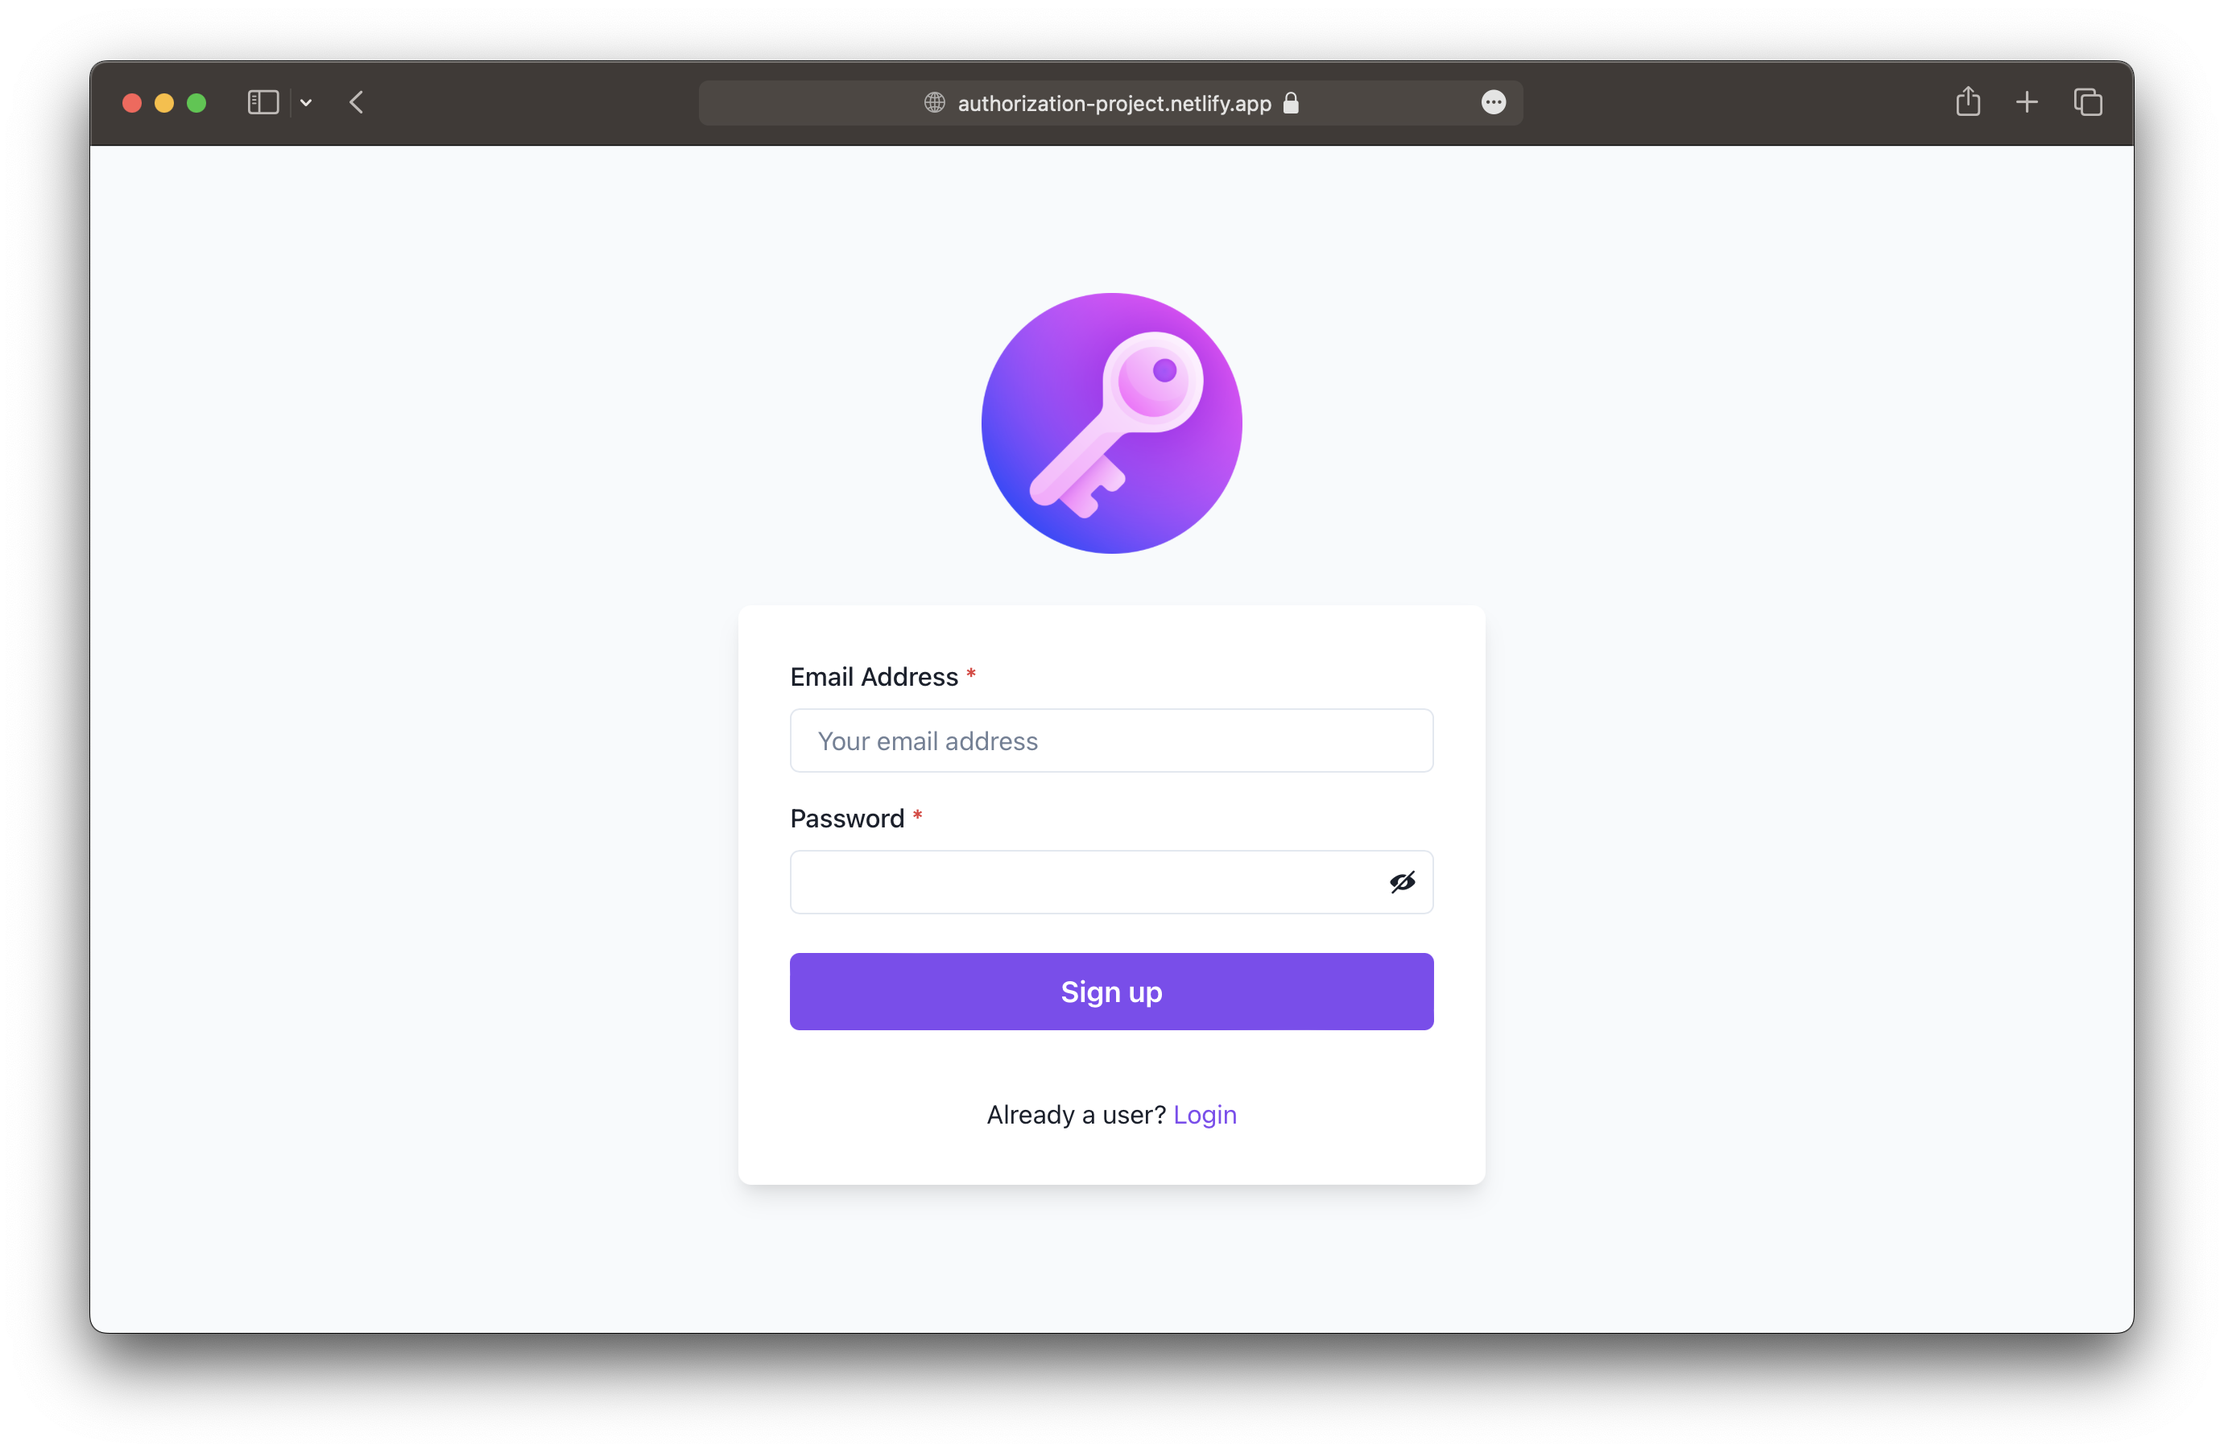
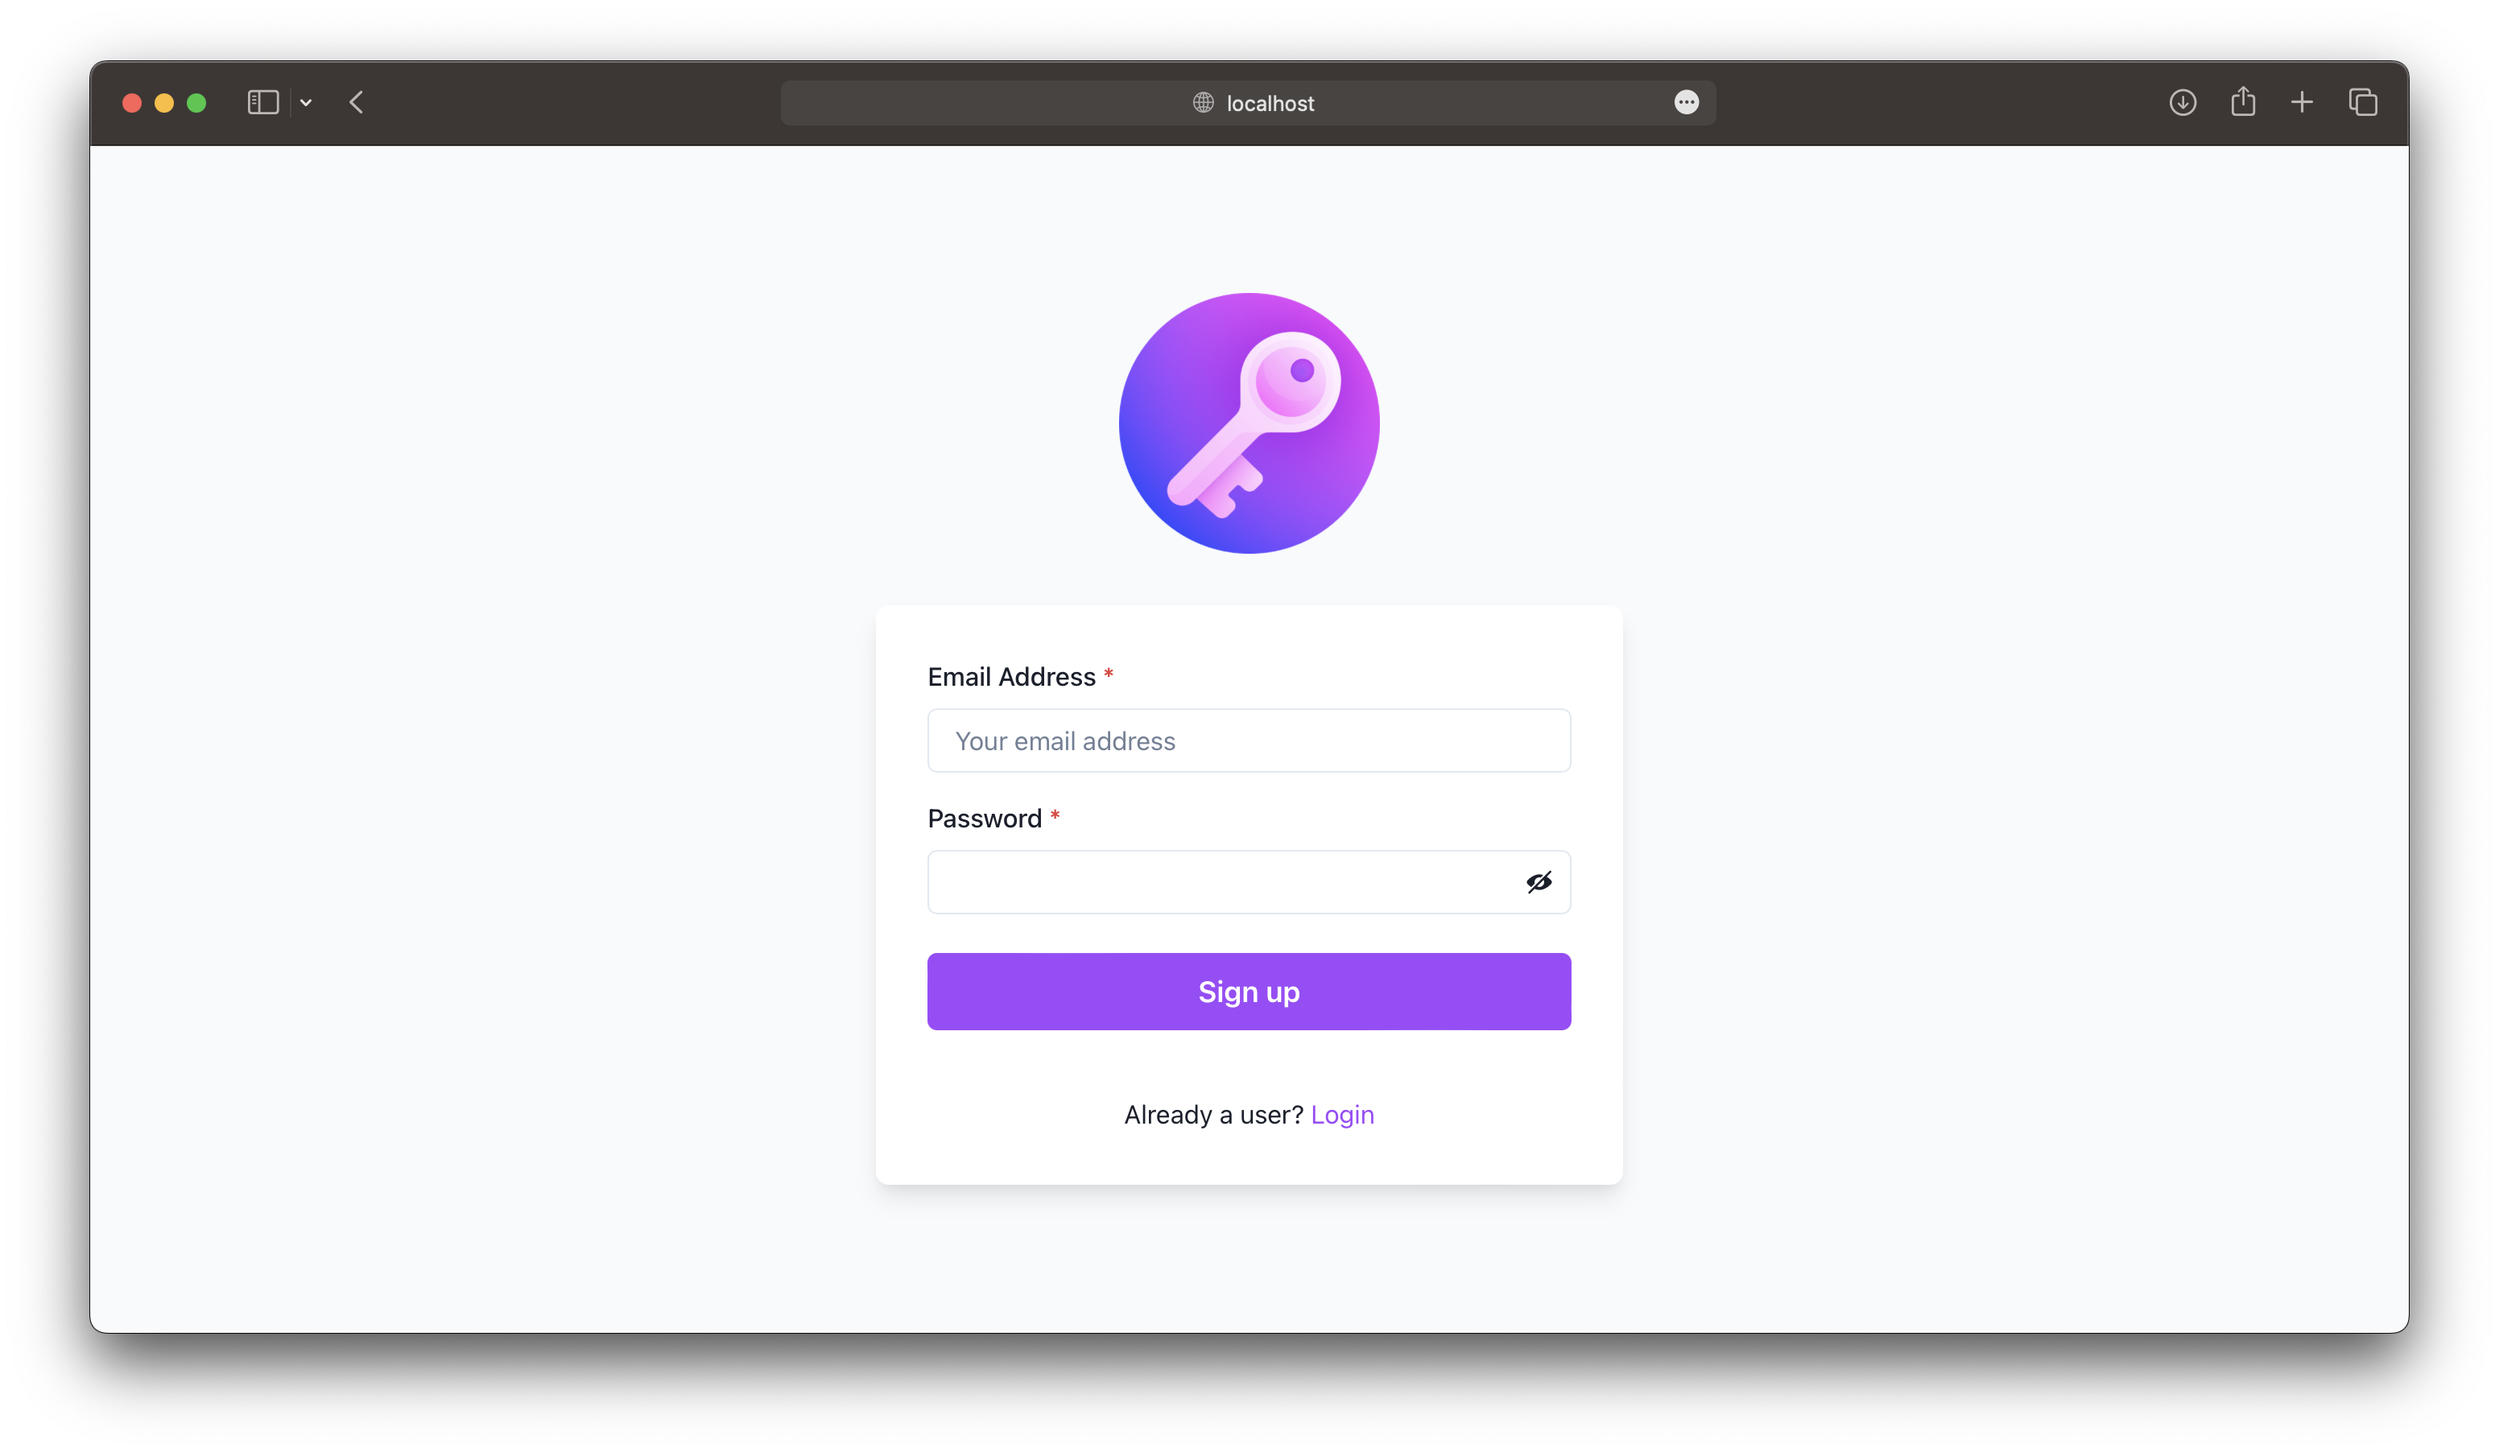
Add minor changes to the UI

diff --git a/src/components/SignUpButton.jsx b/src/components/SignUpButton.jsx
@@ -4,10 +4,10 @@ const SignUpButton = (props) => {
   return (
     <Stack pt={2} spacing={10}>
       <Button
-        bg='#804BF2'
+        bg='#a048fcfe'
         color='white'
         _hover={{
-          bg: '#CC44F2',
+          bg: '#ca44f8fb',
         }}
         loadingText='Signing Up'
         onClick={() => props.handleSubmit()}

diff --git a/index.html b/index.html
@@ -4,7 +4,7 @@
     <meta charset="UTF-8" />
     <link rel="icon" type="image/svg+xml" href="/vite.svg" />
     <meta name="viewport" content="width=device-width, initial-scale=1.0" />
-    <title>Auth Project - Santiago</title>
+    <title>Authorization Project</title>
   </head>
   <body>
     <div id="root"></div>

diff --git a/src/components/LoginButton.jsx b/src/components/LoginButton.jsx
@@ -4,7 +4,7 @@ const LoginButton = () => {
   return (
     <Stack pt={6}>
       <Text align='center'>
-        Already a user? <Link color='#804BF2'>Login</Link>
+        Already a user? <Link color='#a048fcfe'>Login</Link>
       </Text>
     </Stack>
   );
